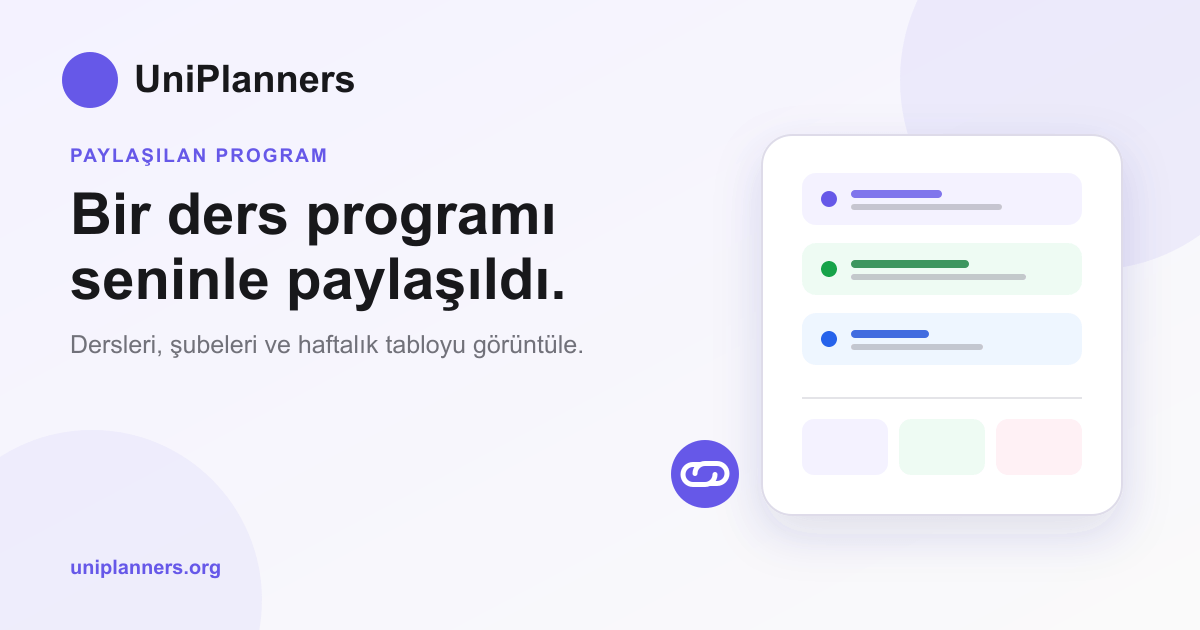
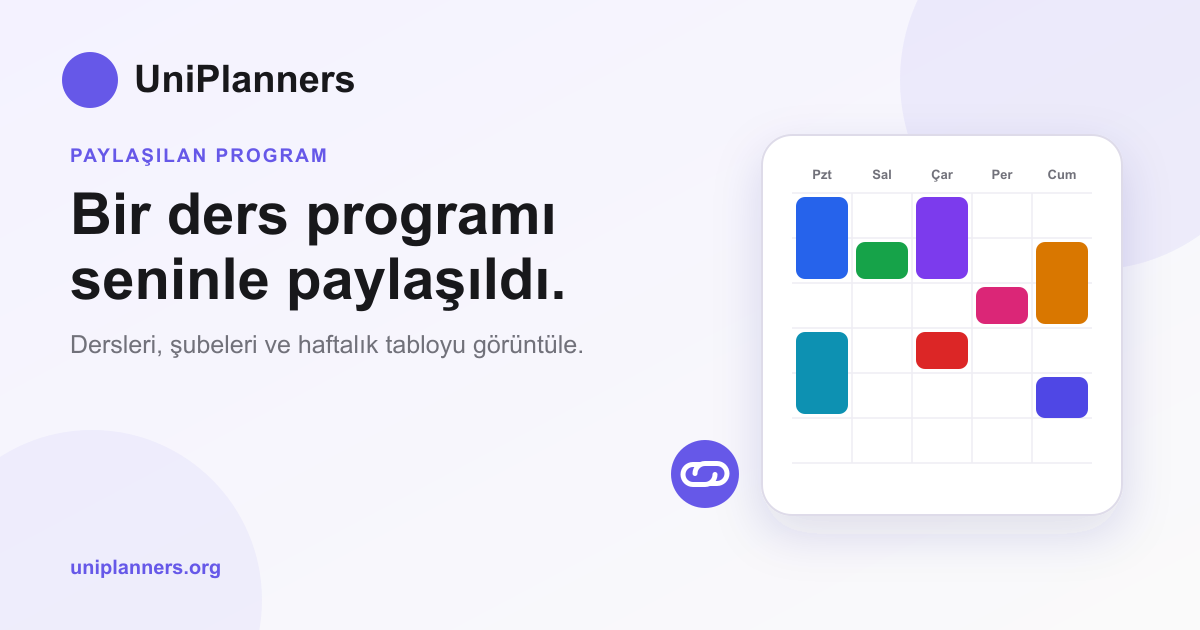
Let Add All replace pinned sections, auto-regenerate after conflict removal, redesign share preview
"Tümünü Ekle" (Add All) was disabled once any individual section of a course
was pinned, with no way to actually add the whole course short of manually
removing the section first. It now replaces the pinned section(s) with the
whole-course basket entry directly.

Removing a conflicting course via the × in the schedule-conflict diagnostics
previously just updated the basket and left the old (now-stale) diagnostics
on screen until the user clicked Generate again. It now re-generates
immediately with the updated basket.

The share-link preview image (og:image) showed a generic list-of-rows mockup
unrelated to what's actually being shared. Redesigned it as a weekly
calendar grid with colored course blocks, matching the app's own schedule
view.

diff --git a/frontend/src/App.jsx b/frontend/src/App.jsx
@@ -342,12 +342,6 @@ function App() {
       notify('error', tr(`${course.code} zaten sepetinizde.`, `${course.code} is already in your basket.`))
       return false
     }
-    if (sections.length === 0 && existing?.sections?.length > 0) {
-      notify('error', tr(
-        `${course.code} dersinin bir şubesi sepette. Önce şubeyi kaldırın.`,
-        `A section of ${course.code} is already in your basket. Remove it first.`))
-      return false
-    }
     if (sections.length > 0 && existing?.sections?.length === 0) {
       notify('error', tr(
         `${course.code} dersinin tamamı sepette. Tek şube eklenemez.`,
@@ -369,10 +363,13 @@ function App() {
     let mainMsg = null
 
     if (sections.length === 0) {
-      setBasket(prev => [...prev, {
-        code: course.code, name: course.name, credits: course.credits,
-        sections: [], assessments: course.assessments || [], source
-      }])
+      // If some individual sections of this course were already pinned,
+      // "Add All" replaces that partial pin with the whole-course entry
+      // instead of being blocked or creating a duplicate basket item.
+      setBasket(prev => [
+        ...prev.filter(item => normalizeCourseCode(item.code) !== normalizeCourseCode(course.code)),
+        { code: course.code, name: course.name, credits: course.credits, sections: [], assessments: course.assessments || [], source }
+      ])
       mainMsg = tr(`${course.code} eklendi`, `${course.code} added`)
     } else {
       const toAdd = sections.filter(section => !(existing?.sections || []).includes(section))
@@ -497,14 +494,20 @@ function App() {
 
   // Renders a course code with a small × to remove it from the basket, used
   // inside the schedule-conflict diagnostics so a listed course can be
-  // dropped without hunting for it in the basket panel.
+  // dropped without hunting for it in the basket panel. Removing a conflicting
+  // course re-generates immediately with the updated basket instead of making
+  // the user click "Generate" again.
   const conflictCourseChip = code => (
     <span className="conflict-course-chip" key={code}>
       {code}
       <button
         type="button"
         className="conflict-course-remove"
-        onClick={() => removeCourseFromBasket(code)}
+        onClick={() => {
+          const nextBasket = basket.filter(item => normalizeCourseCode(item.code) !== normalizeCourseCode(code))
+          setBasket(nextBasket)
+          generateSchedules(null, nextBasket)
+        }}
         aria-label={tr(`${code} dersini sepetten çıkar`, `Remove ${code} from basket`)}
         title={tr('Sepetten çıkar', 'Remove from basket')}
       >×</button>

diff --git a/frontend/src/components/search/SearchSection.jsx b/frontend/src/components/search/SearchSection.jsx
@@ -25,8 +25,8 @@ function SearchSection({ language, onAddCourse, catalogTerm, basket = [], onRemo
     noResults: language === 'tr' ? 'Aramanıza uygun ders bulunamadı.' : 'No courses found matching your search.',
     loading: language === 'tr' ? 'Veritabanı aranıyor...' : 'Querying database...',
     sectionInBasketHint: language === 'tr'
-      ? 'Bu dersin bir şubesi sepette. Tümünü eklemek için önce şubeyi çıkarın.'
-      : 'A section of this course is in your basket. Remove it first to add the whole course.',
+      ? 'Bu dersin bir şubesi sepette. Tümünü eklemek, o şubeyi kaldırıp dersin tamamını ekler.'
+      : 'A section of this course is in your basket. Adding all will replace it with the whole course.',
     remove: language === 'tr' ? 'Çıkar' : 'Remove',
   }
 
@@ -150,7 +150,6 @@ function SearchSection({ language, onAddCourse, catalogTerm, basket = [], onRemo
                       <button
                         className="btn btn-sm btn-secondary"
                         onClick={(e) => { e.stopPropagation(); onAddCourse(course) }}
-                        disabled={pinnedSections.size > 0}
                         title={pinnedSections.size > 0 ? t.sectionInBasketHint : undefined}
                       >
                         {t.addAll}
